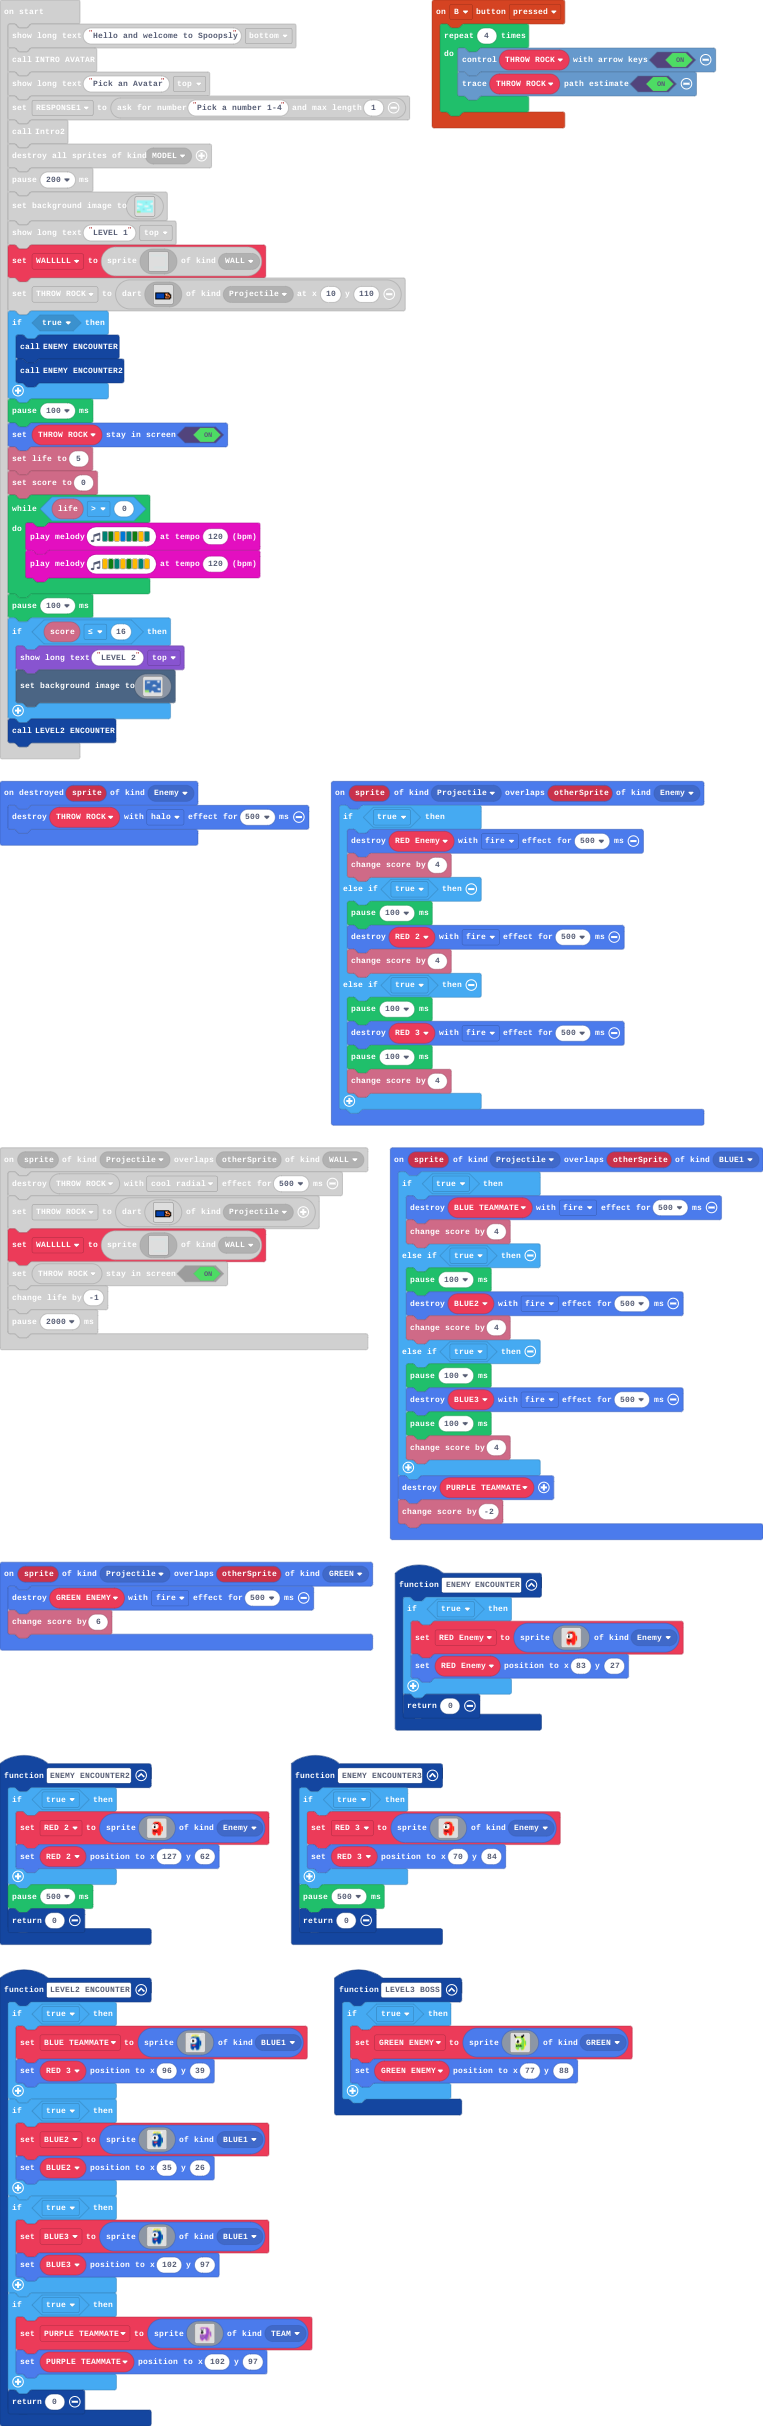
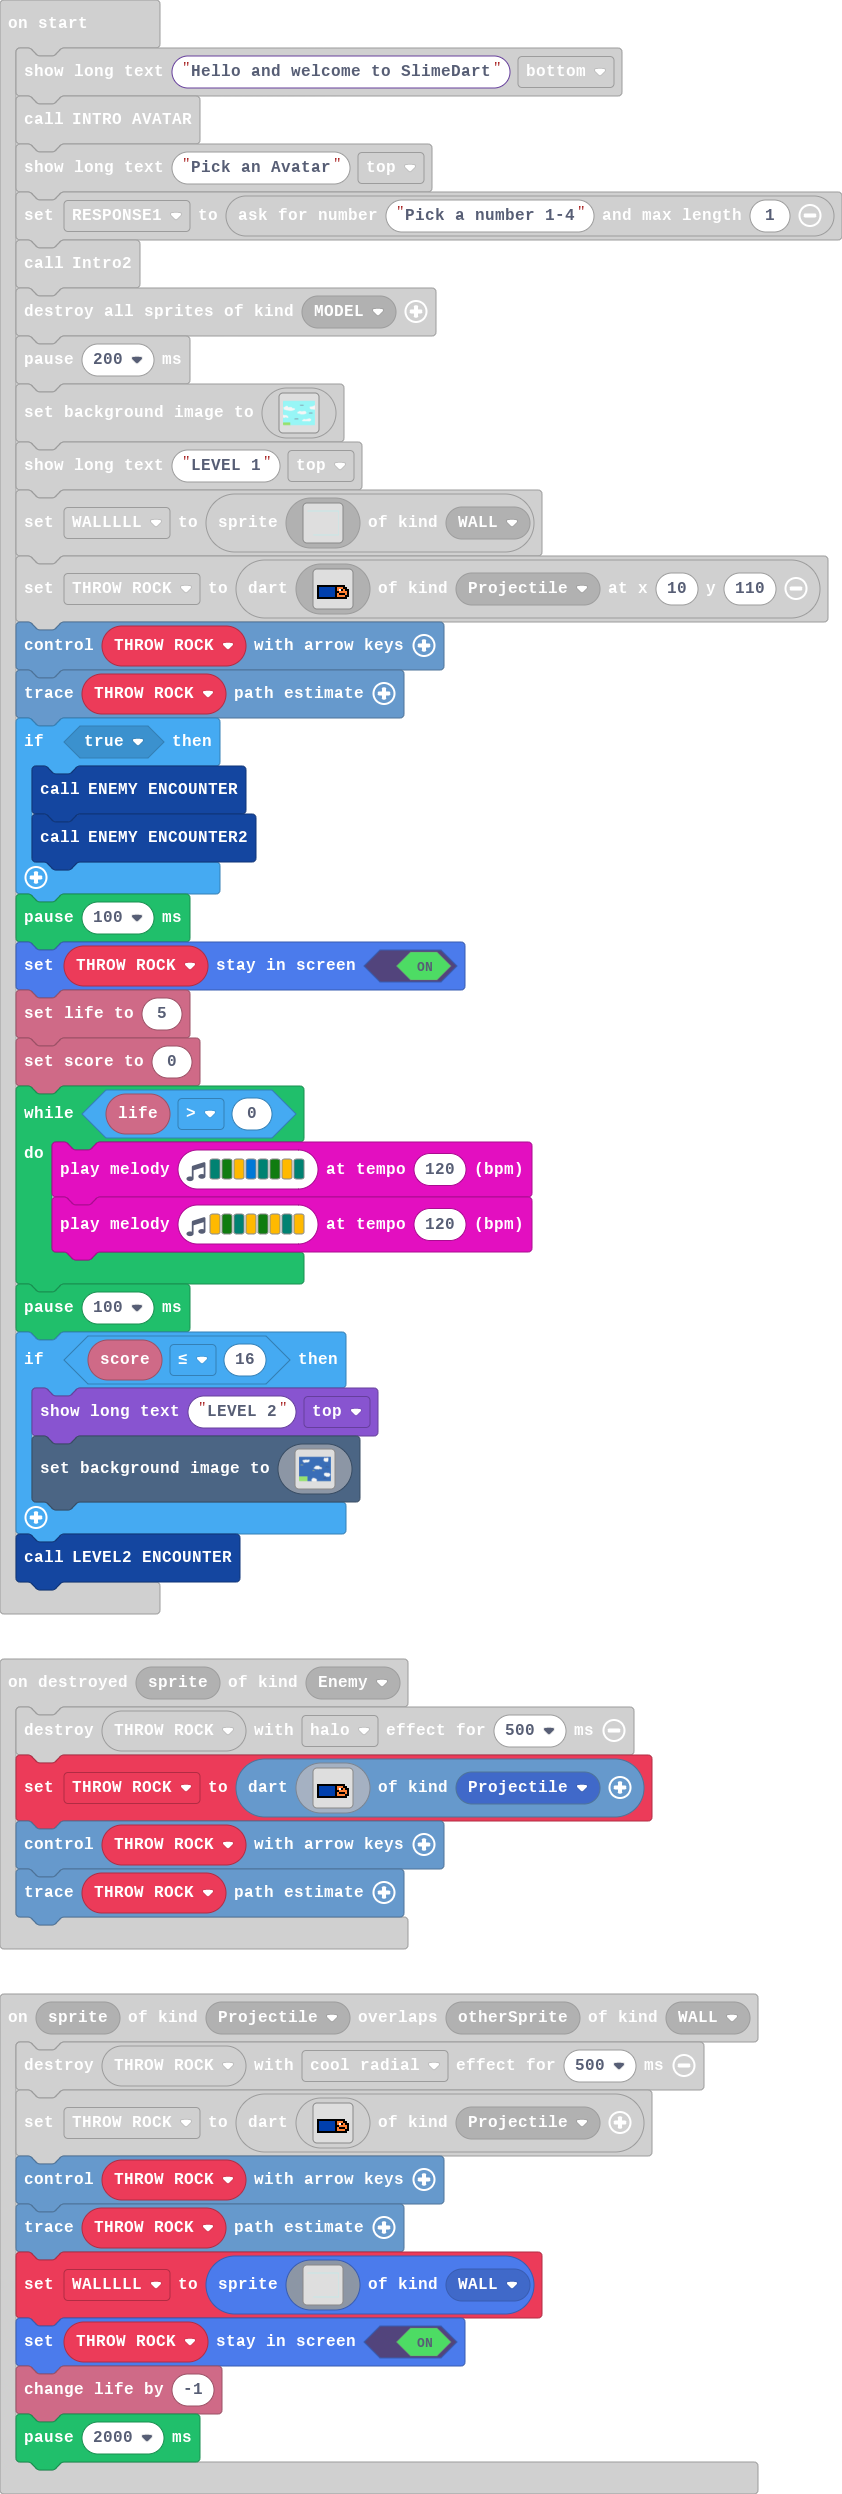
Update main.blocks, main.ts

diff --git a/main.ts b/main.ts
@@ -518,6 +518,8 @@ sprites.onOverlap(SpriteKind.Projectile, SpriteKind.WALL, function (sprite, othe
         . . . . . . . . . . . . . . . . 
         . . . . . . . . . . . . . . . . 
         `, SpriteKind.Projectile)
+    THROW_ROCK.controlWithArrowKeys()
+    THROW_ROCK.setTrace()
     WALLLLL = sprites.create(img`
         ...9999999999999999999999999999999999999999999999999999999999999999999999999999999999999999999999999999999999999999999999999999999999999999999999999999999999999
         ...............................................................................................................................................................9
@@ -646,6 +648,26 @@ sprites.onOverlap(SpriteKind.Projectile, SpriteKind.WALL, function (sprite, othe
 })
 sprites.onDestroyed(SpriteKind.Enemy, function (sprite) {
     THROW_ROCK.destroy(effects.halo, 500)
+    THROW_ROCK = darts.create(img`
+        . . . . . . . . . . . . . . . . 
+        . . . . . . . . . . . . . . . . 
+        . . . . . . . . . . . . . . . . 
+        . . . . . . . . . . . . . . . . 
+        . . . . . . . . . . . . . . . . 
+        . . . . . . . . . . . . . . . . 
+        f f f f f f f f f f f f f f . . 
+        f 8 8 8 8 8 8 8 8 f 4 4 4 f f . 
+        f 8 8 8 8 8 8 8 8 f 4 1 f 4 f f 
+        f 8 8 8 8 8 8 8 8 f f 4 4 4 4 f 
+        f 8 8 8 8 8 8 8 8 f 4 f f f 4 f 
+        f 8 8 8 8 8 8 8 8 f 4 4 4 4 f f 
+        f f f f f f f f f f f f f f f . 
+        . . . . . . . . . . . . . . . . 
+        . . . . . . . . . . . . . . . . 
+        . . . . . . . . . . . . . . . . 
+        `, SpriteKind.Projectile)
+    THROW_ROCK.controlWithArrowKeys()
+    THROW_ROCK.setTrace()
 })
 sprites.onOverlap(SpriteKind.Projectile, SpriteKind.Enemy, function (sprite, otherSprite) {
     if (true) {
@@ -945,7 +967,7 @@ let _4: Sprite = null
 let _3: Sprite = null
 let _2: Sprite = null
 let _1: Sprite = null
-game.showLongText("Hello and welcome to Spoopsly", DialogLayout.Bottom)
+game.showLongText("Hello and welcome to SlimeDart", DialogLayout.Bottom)
 INTRO_AVATAR()
 game.showLongText("Pick an Avatar", DialogLayout.Top)
 RESPONSE1 = game.askForNumber("Pick a number 1-4", 1)
@@ -1215,6 +1237,8 @@ THROW_ROCK = darts.create(img`
     . . . . . . . . . . . . . . . . 
     . . . . . . . . . . . . . . . . 
     `, SpriteKind.Projectile, 10, 110)
+THROW_ROCK.controlWithArrowKeys()
+THROW_ROCK.setTrace()
 if (true) {
     ENEMY_ENCOUNTER()
     ENEMY_ENCOUNTER2()
